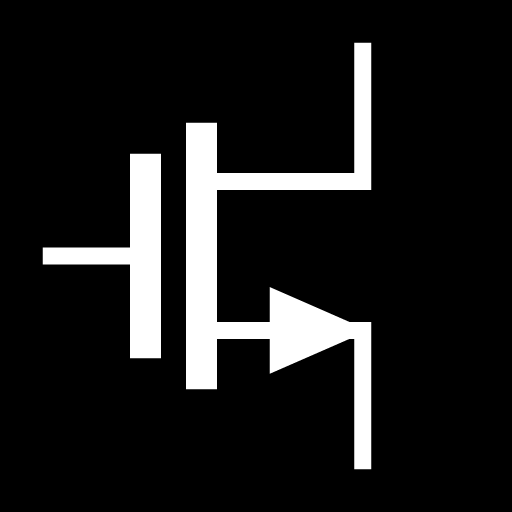
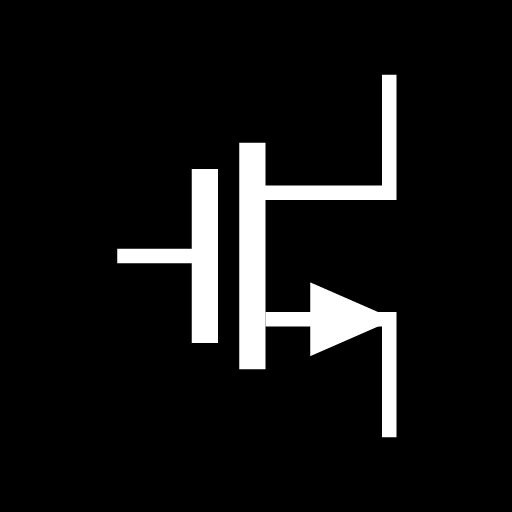
Center and shrink the NMOS brand mark (#968)
Scale the component-library NMOS artwork to 85% and center it from its visible primitive bounds, leaving balanced whitespace inside the black logo square. Regenerate the SVG and PWA rasters and advance the icon URL revision so browsers do not retain the old crop.\n\nTest impact: Gallery favicon/header and Editor manifest expectations cover the new icon revision.\n\nValidation: PWA generation check; focused icon browser contracts; complete static/generated/docs/type contracts; 4,931 unit tests; 50 Gallery and 131 Editor browser workflows; full local release verification; required remote Core and both Browser checks.\n\nUnresolved limitations: none.\n\nTest-Impact: tests-updated

Changed region(s): [[0.0625, 0.0625, 0.7812, 0.9375]]

diff --git a/apps/editor/e2e/gallery.spec.ts b/apps/editor/e2e/gallery.spec.ts
@@ -554,10 +554,10 @@ test("the site lands on the full-screen gallery feed", async ({ page }) => {
   await expect(brand).toHaveCSS("text-decoration-line", "none");
   const brandMark = brand.locator(".app-brand-mark");
   await expect(brandMark).toBeVisible();
-  await expect(brandMark).toHaveCSS("background-image", /icon\.svg\?v=nmos-1/);
+  await expect(brandMark).toHaveCSS("background-image", /icon\.svg\?v=nmos-2/);
   await expect(page.locator('link[rel="icon"]')).toHaveAttribute(
     "href",
-    "/icon.svg?v=nmos-1",
+    "/icon.svg?v=nmos-2",
   );
 
   // With community entries present the wall shows them alone: the bundled

diff --git a/apps/editor/public/sw.js b/apps/editor/public/sw.js
@@ -14,9 +14,9 @@ function shellUrls() {
   return [
     new URL("./", scope).toString(),
     new URL("manifest.webmanifest", scope).toString(),
-    new URL("icon.svg?v=nmos-1", scope).toString(),
-    new URL("icon-192.png?v=nmos-1", scope).toString(),
-    new URL("icon-512.png?v=nmos-1", scope).toString(),
+    new URL("icon.svg?v=nmos-2", scope).toString(),
+    new URL("icon-192.png?v=nmos-2", scope).toString(),
+    new URL("icon-512.png?v=nmos-2", scope).toString(),
   ];
 }
 

diff --git a/apps/editor/e2e/manual-editor.spec.ts b/apps/editor/e2e/manual-editor.spec.ts
@@ -4995,8 +4995,8 @@ test("keeps the production command surface compact and publishes PWA metadata", 
     display: "standalone",
     theme_color: "#2383e2",
     icons: [
-      { src: "./icon-192.png?v=nmos-1", sizes: "192x192" },
-      { src: "./icon-512.png?v=nmos-1", sizes: "512x512" },
+      { src: "./icon-192.png?v=nmos-2", sizes: "192x192" },
+      { src: "./icon-512.png?v=nmos-2", sizes: "512x512" },
     ],
   });
 });

diff --git a/apps/editor/index.html b/apps/editor/index.html
@@ -5,7 +5,7 @@
     <meta name="viewport" content="width=device-width, initial-scale=1.0" />
     <meta name="theme-color" content="#2383e2" />
     <link rel="manifest" href="%BASE_URL%manifest.webmanifest" />
-    <link rel="icon" href="%BASE_URL%icon.svg?v=nmos-1" />
+    <link rel="icon" href="%BASE_URL%icon.svg?v=nmos-2" />
     <title>Analog Canvas</title>
     <script>
       if (

diff --git a/apps/editor/src/styles.css b/apps/editor/src/styles.css
@@ -231,7 +231,7 @@ body {
   height: 22px;
   flex: 0 0 auto;
   border-radius: 6px;
-  background: #2f3437 url("/icon.svg?v=nmos-1") center / cover no-repeat;
+  background: #2f3437 url("/icon.svg?v=nmos-2") center / cover no-repeat;
   box-shadow: inset 0 0 0 1px rgb(255 255 255 / 8%);
 }
 
